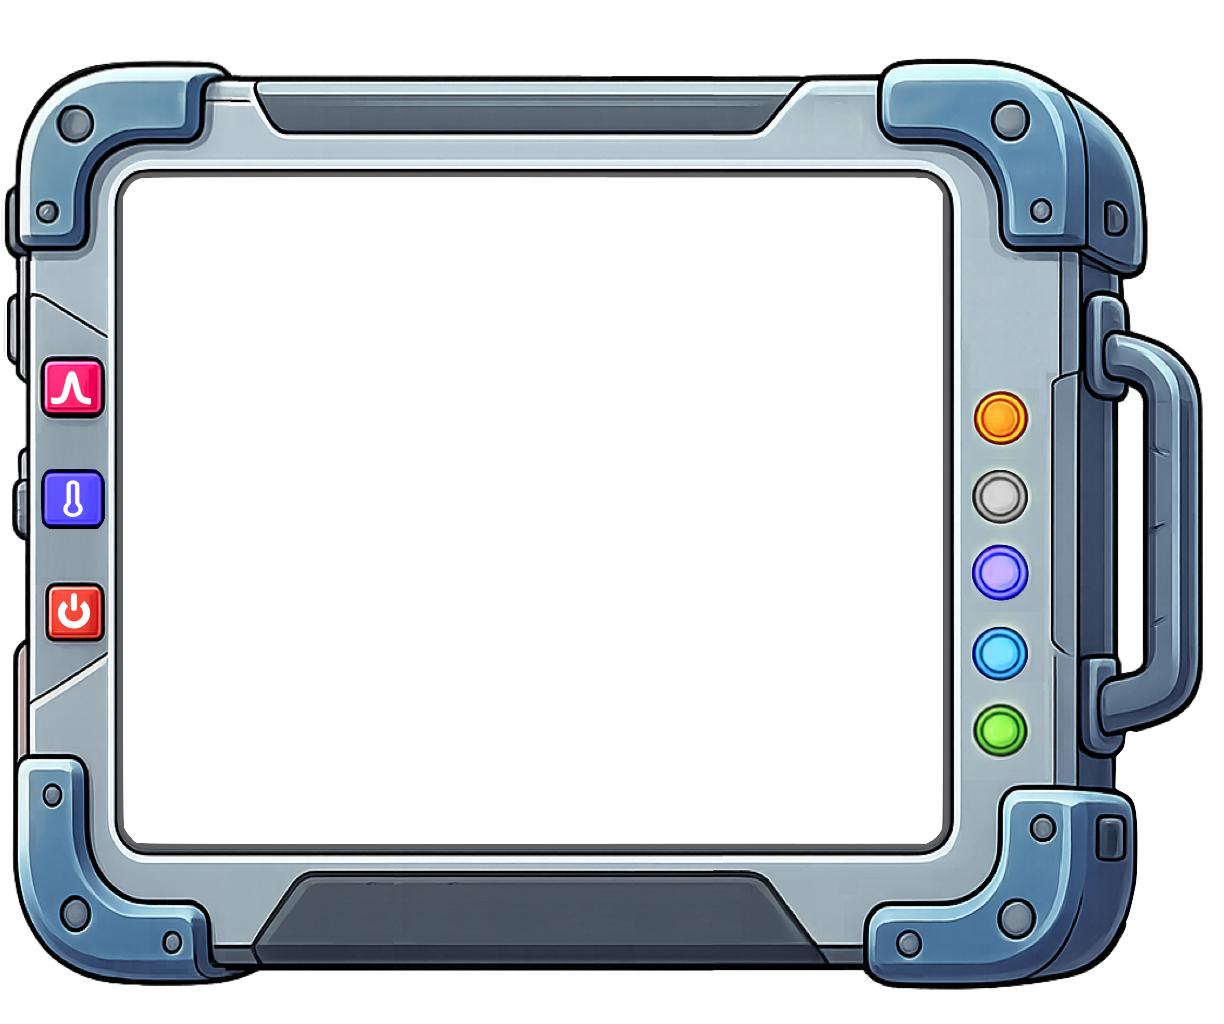
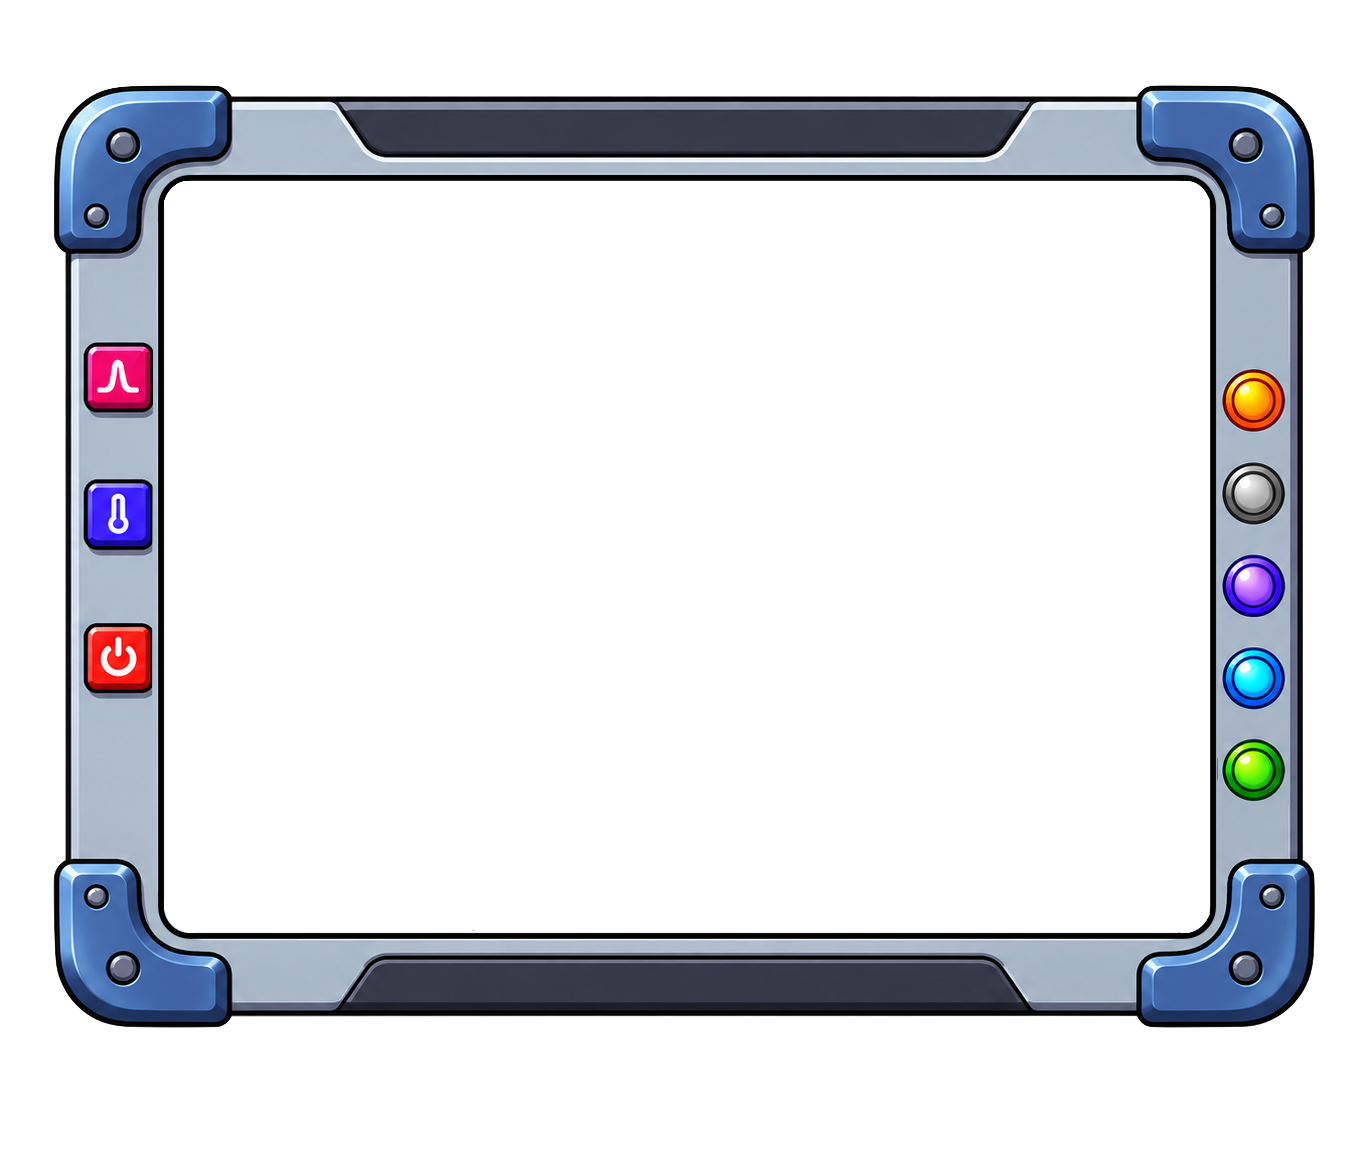
Update viewer.png to new design; add viewer1.png; cache-bust viewer src

diff --git a/v2/light-sources.jsx b/v2/light-sources.jsx
@@ -2207,7 +2207,7 @@ export default function App() {
         const isViewer = drag.type === 'viewer';
         const w = isViewer ? VIEWER_W : SOURCES[drag.type].w;
         const h = isViewer ? VIEWER_H : undefined;
-        const src = isViewer ? 'images/viewer.png' : SOURCES[drag.type].src;
+        const src = isViewer ? 'images/viewer.png?v=2' : SOURCES[drag.type].src;
         return (
           <div className="fixed pointer-events-none z-50"
             style={{ left: drag.cx - drag.ox, top: drag.cy - drag.oy, width: w, height: h }}>
